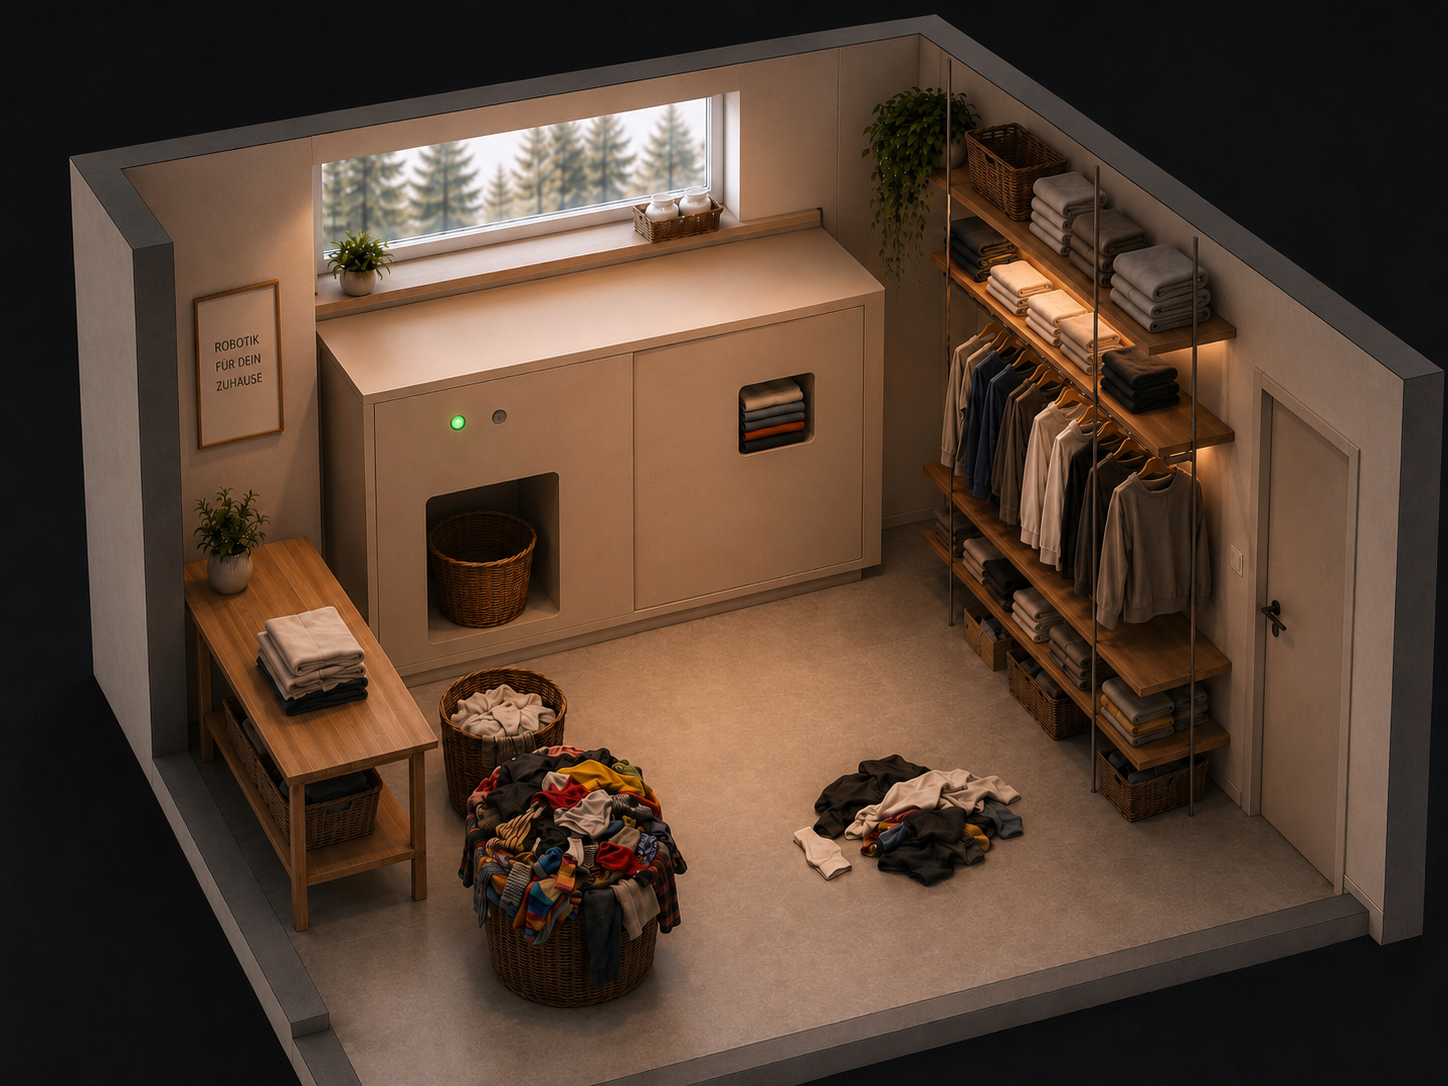
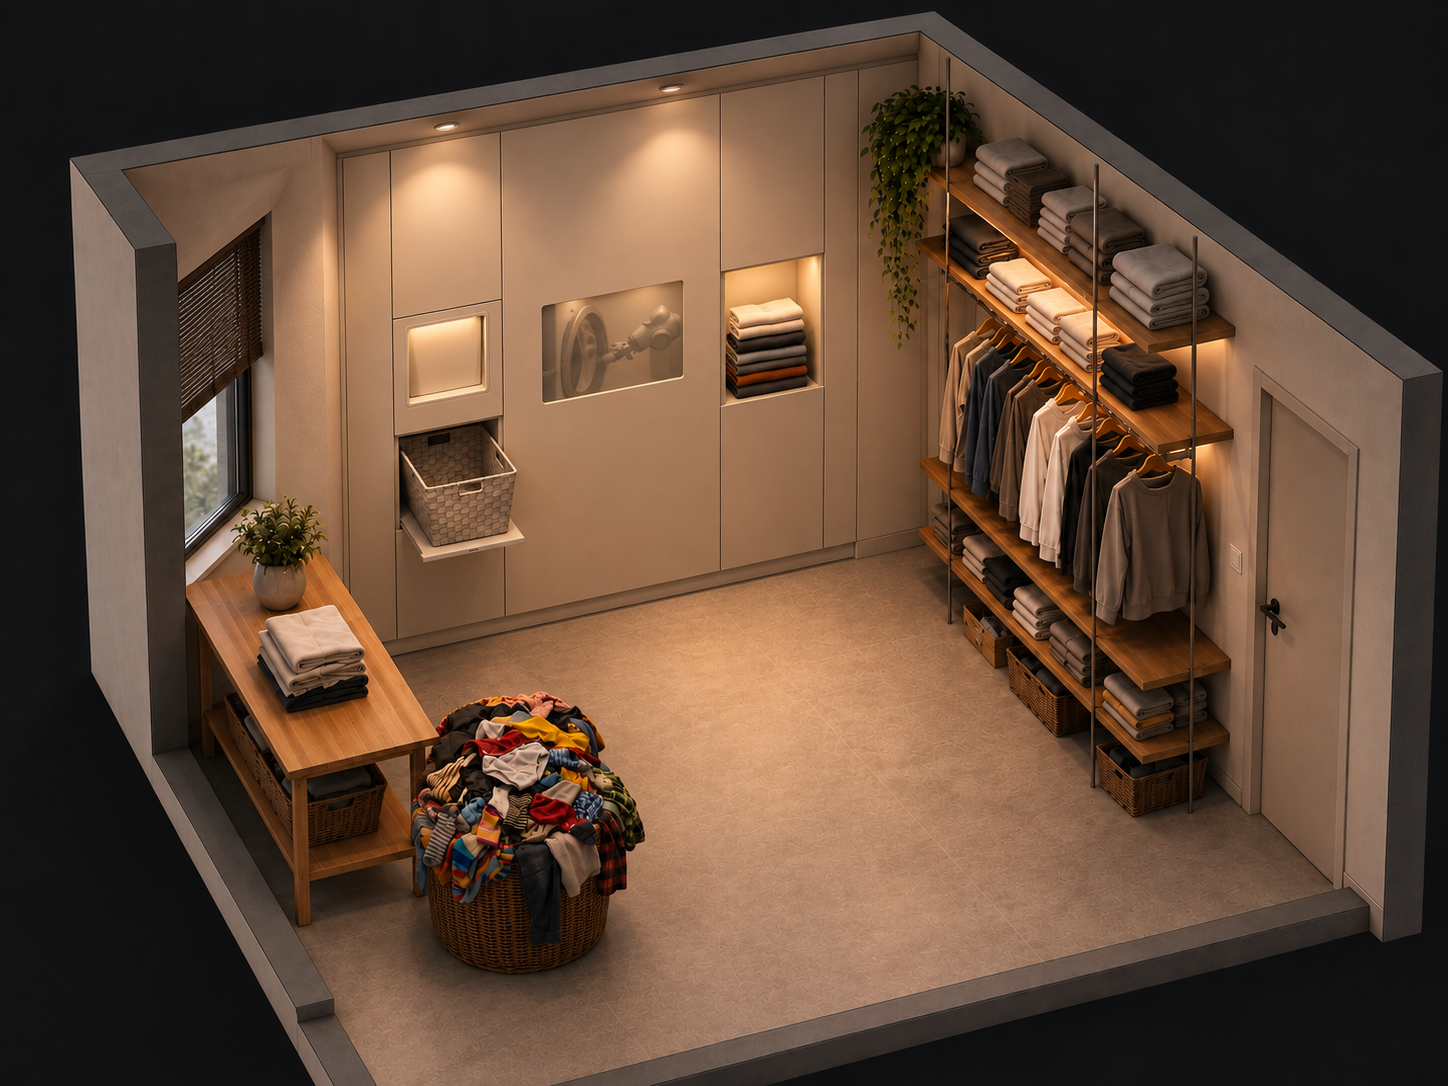
Changes

diff --git a/src/components/site/FeatureImages.tsx b/src/components/site/FeatureImages.tsx
@@ -1,4 +1,4 @@
-import mobilImage from "@/assets/design-das-sich-einfuegt.png.asset.json";
+import mobilImage from "@/assets/konfigurator-mobil.png.asset.json";
 import praezision from "@/assets/praezision-uebernimmt.png.asset.json";
 import qualitaet from "@/assets/qualitaet-bleibt.png.asset.json";
 
